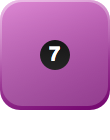
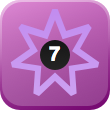
new layout

Changed region(s): [[0.0818, 0.0571, 0.9, 0.6857]]

diff --git a/index.html b/index.html
@@ -40,6 +40,7 @@
   engine.loadImage("piece_x3","images/piece_x3.png");
   engine.loadImage("piece_x4","images/piece_x4.png");
   engine.loadImage("piece_bomb_side","images/piece_bomb_side.png");
+  engine.loadImage("piece_bomb_all","images/piece_bomb_all.png");
 
   // localStorage["numbers-hiscore"]=0;
   engine.addScene("game",{
@@ -94,6 +95,9 @@
       }else if(this.lastNumber==5){
         this.lastNumber=0;
         return 10010;
+      }else if(this.lastNumber==6){
+        this.lastNumber=0;
+        return 10011;
       }else{
         this.lastNumber=0;
         return Math.floor(Math.random()*4+1);
@@ -155,7 +159,7 @@
     checkGameOver:function(){
       for(var iy=0;iy<this.rows;iy++){
         for(var ix=0;ix<this.columns;ix++){
-          if(this.blocks[ix+iy*this.columns].number==10010){
+          if(this.blocks[ix+iy*this.columns].number>=10010){
             return false;
           }
           this.markCount=0;
@@ -194,6 +198,8 @@
       }else if(num==10011){
         // bomb
         this.explodeBomb(x,y);
+        this.addScore(500);
+        this.addBonusText("Blow away double, 500 points");
         this.scheduleFunction(this.frameTime,this.collapseBlocks);
         return;
       }else if(num>=10000){
@@ -236,23 +242,31 @@
     explodeBomb:function(x,y){
       var queue=new Array();
 
-      for(var ix=-1;ix<2;ix++){
-        if(x+ix>=0 && x+ix<this.columns){
-          for(var iy=-1;iy<2;iy++){
-            if(y+iy>=0 && y+iy<this.rows){
-              var b=this.blocks[x+ix+(iy+y)*this.columns];
-              if(b.number==10010 && ix+x!=x && iy+y!=y){
-                queue.push({
-                  x:ix,y:iy
-                });
-              }
-              b.number=-1;
-            }
-          }    
-        }      
+      for(var ix=0;ix<this.columns;ix++){
+        var b=this.blocks[ix+y*this.columns];
+        if((b.number==10010 || b.number==10011)&& ix!=x){
+          queue.push({
+            x:ix,y:y,number:b.number
+          });
+        }
+        b.number=-1;
+      }
+      for(var iy=0;iy<this.rows;iy++){
+        var b=this.blocks[x+iy*this.columns];
+        if((b.number==10010 || b.number==10011)&& iy!=y){
+          queue.push({
+            x:x,y:iy,number:b.number
+          });
+        }
+        b.number=-1;
       }
       for(var i=0;i<queue.length;i++){
-        this.explodeBomb(queue[i].x,queue[i].y);
+        var b=queue[i];
+        if(b.number==10011){
+          this.explodeBomb(queue[i].x,queue[i].y);
+        }else if(b.number==10010){
+          this.explodeSideBomb(queue[i].x,queue[i].y);
+        }
       }
     },
     explodeSideBomb:function(x,y){
@@ -281,6 +295,8 @@
           img_id="piece_x4";
         }else if(number==10010){
           img_id="piece_bomb_side";
+        }else if(number==10011){
+          img_id="piece_bomb_all";
         }else if(number<10){
           img_id="piece_"+number;
         }
@@ -317,29 +333,29 @@
 
       // Score
       ctx.font="60px helvetica";
-      ctx.textAlign="left";
+      ctx.textAlign="center";
       ctx.fillStyle="#FFFFFF";
-      ctx.fillText(this.score,16,140);
+      ctx.fillText(this.score,engine.config("width")/2,160);
       ctx.font="40px helvetica";
-      ctx.fillText("Score",16,85);
+      ctx.fillText("Score",engine.config("width")/2,105);
       // hiscore
-      ctx.font="60px helvetica";
+      ctx.font="40px helvetica";
       ctx.textAlign="left";
       ctx.fillStyle="#FFFFFF";
-      ctx.fillText(this.hiscore,2*this.blockWidth+16,140);
-      ctx.font="40px helvetica";
-      ctx.fillText("HiScore",2*this.blockWidth+16,85);
+      ctx.fillText(this.hiscore,this.xOffset,80);
+      ctx.font="20px helvetica";
+      ctx.fillText("HiScore",this.xOffset,40);
 
       if(this.bonusQueue.length>0){
         ctx.font="40px helvetica";
-        ctx.textAlign="right";
+        ctx.textAlign="center";
         if(this.bonusQueue[0].time>1){
           ctx.fillStyle="#FFFFFF";
         }else{
           ctx.fillStyle="rgba(0,0,0,"+this.bonusQueue[0].time+")";
         }
-        ctx.fillText(this.bonusQueue[0].text,engine.config("width")-20,50);
-        this.bonusQueue[0].time-=0.05;
+        ctx.fillText(this.bonusQueue[0].text,engine.config("width")/2,210);
+        this.bonusQueue[0].time-=0.025;
         if(this.bonusQueue[0].time<0.01){
           this.bonusQueue.shift();
         }
